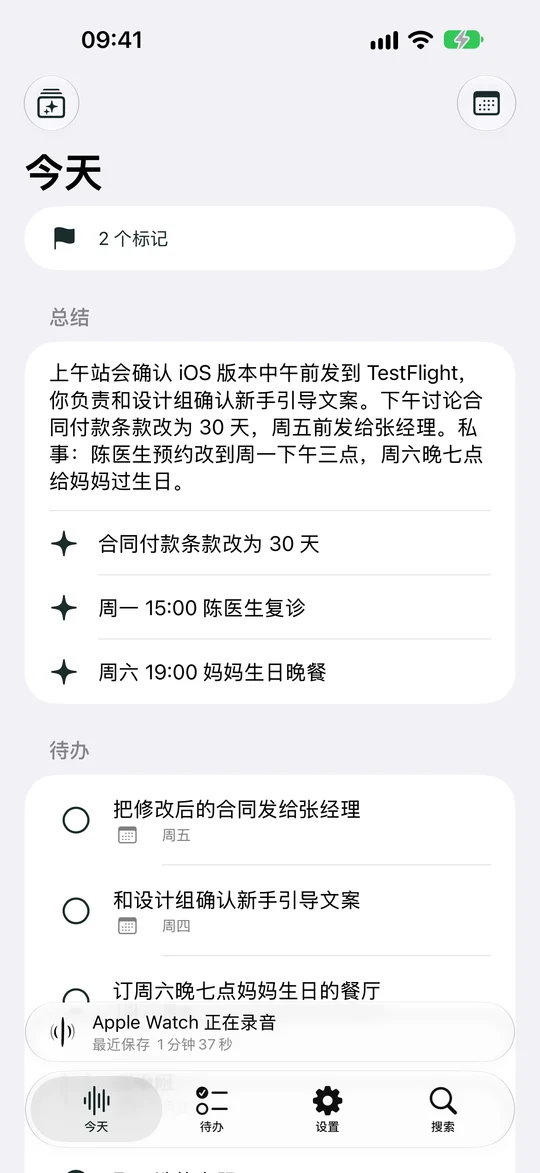
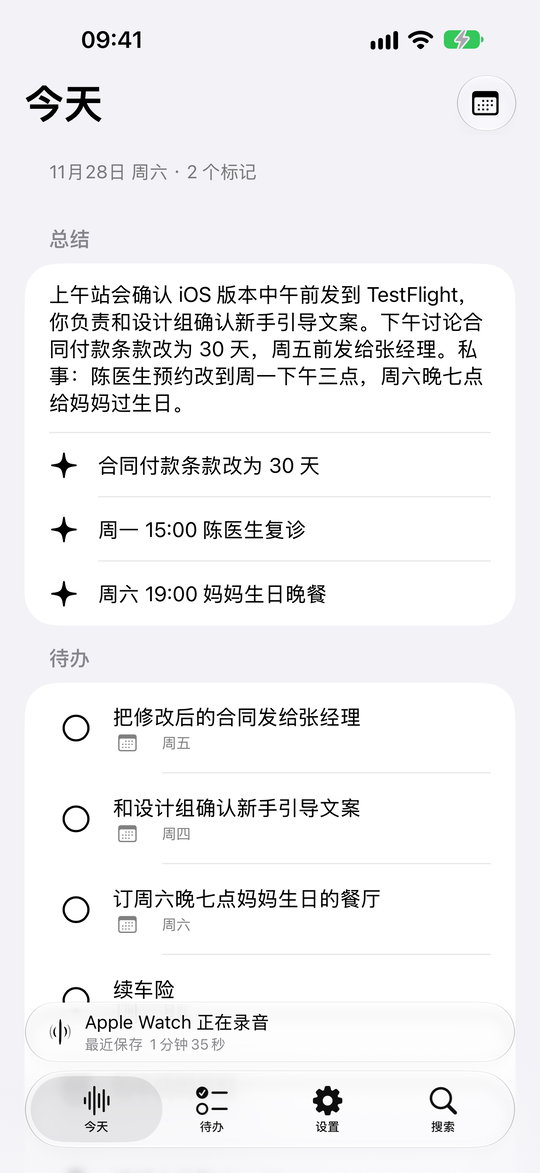
Home: current app screenshots (Today without a leading button, watch without the corner button)

diff --git a/src/style.ts b/src/style.ts
@@ -190,7 +190,7 @@ details p{padding:0 0 20px}
 .live .wapp,.live .wface{position:absolute;inset:0}
 .live .wapp{transition:transform .5s cubic-bezier(.3,.75,.25,1),opacity .35s ease;transform-origin:50% 42%}
 .live .wapp .scr{position:static}
-.wmark2{position:absolute;left:49.88%;top:42.24%;width:34.6%;height:auto;aspect-ratio:1;transform:translate(-50%,-50%);color:#fff}
+.wmark2{position:absolute;left:50%;top:42.45%;width:37.5%;height:auto;aspect-ratio:1;transform:translate(-50%,-50%);color:#fff}
 .wface{background:#000;color:#fff;font-family:-apple-system,"SF Pro Rounded","Inter",sans-serif;opacity:0;transform:scale(1.06);transition:opacity .45s ease .12s,transform .55s cubic-bezier(.3,.75,.25,1) .08s}
 .live[data-rec="0"] .wmic{display:none}
 .fcap .rec,.live[data-rec="0"] .fcap .idle{display:inline}

diff --git a/NOTICE.md b/NOTICE.md
@@ -7,6 +7,17 @@ App Store marketing guidelines (https://developer.apple.com/app-store/marketing/
 shadows or animation of the devices; correct relative scale when shown together; nothing enters or leaves a screen.
 Apple, Apple Watch, iPhone, iPad, MacBook Air, iCloud and Mac are trademarks of Apple Inc.
 
+## Phemo app screenshots — refreshed 2026-11-28
+
+`public/screens/iphone-today2-{zh,en}.{png,webp}` and `watch-rec-nomark-{zh,en}.{png,webp}`
+derive from the app's 2026-11-28 CI screenshots. The iPhone sample-data capsule is removed, retaining
+the native calendar-only button frame and the new CI calendar glyph. All remaining text and controls
+are the actual CI pixels, downsampled to 540 × 1173. The watch images preserve aspect ratio at 416 px
+wide, trimming only black padding to 496 px tall; the complete central mark is removed for the site's
+animated vector overlay. Edits are confined to those regions; device artwork is unchanged.
+WebP versions of the refreshed screenshots are lossless. The watch-face images remain unchanged:
+neither language has the removed information button or AI-service configuration.
+
 ## Agent marks — reviewed 2026-11-28
 
 The starting `src/icons.ts` contained **14 distinct marks, used for 15 agent entries** (Claude's mark appeared
